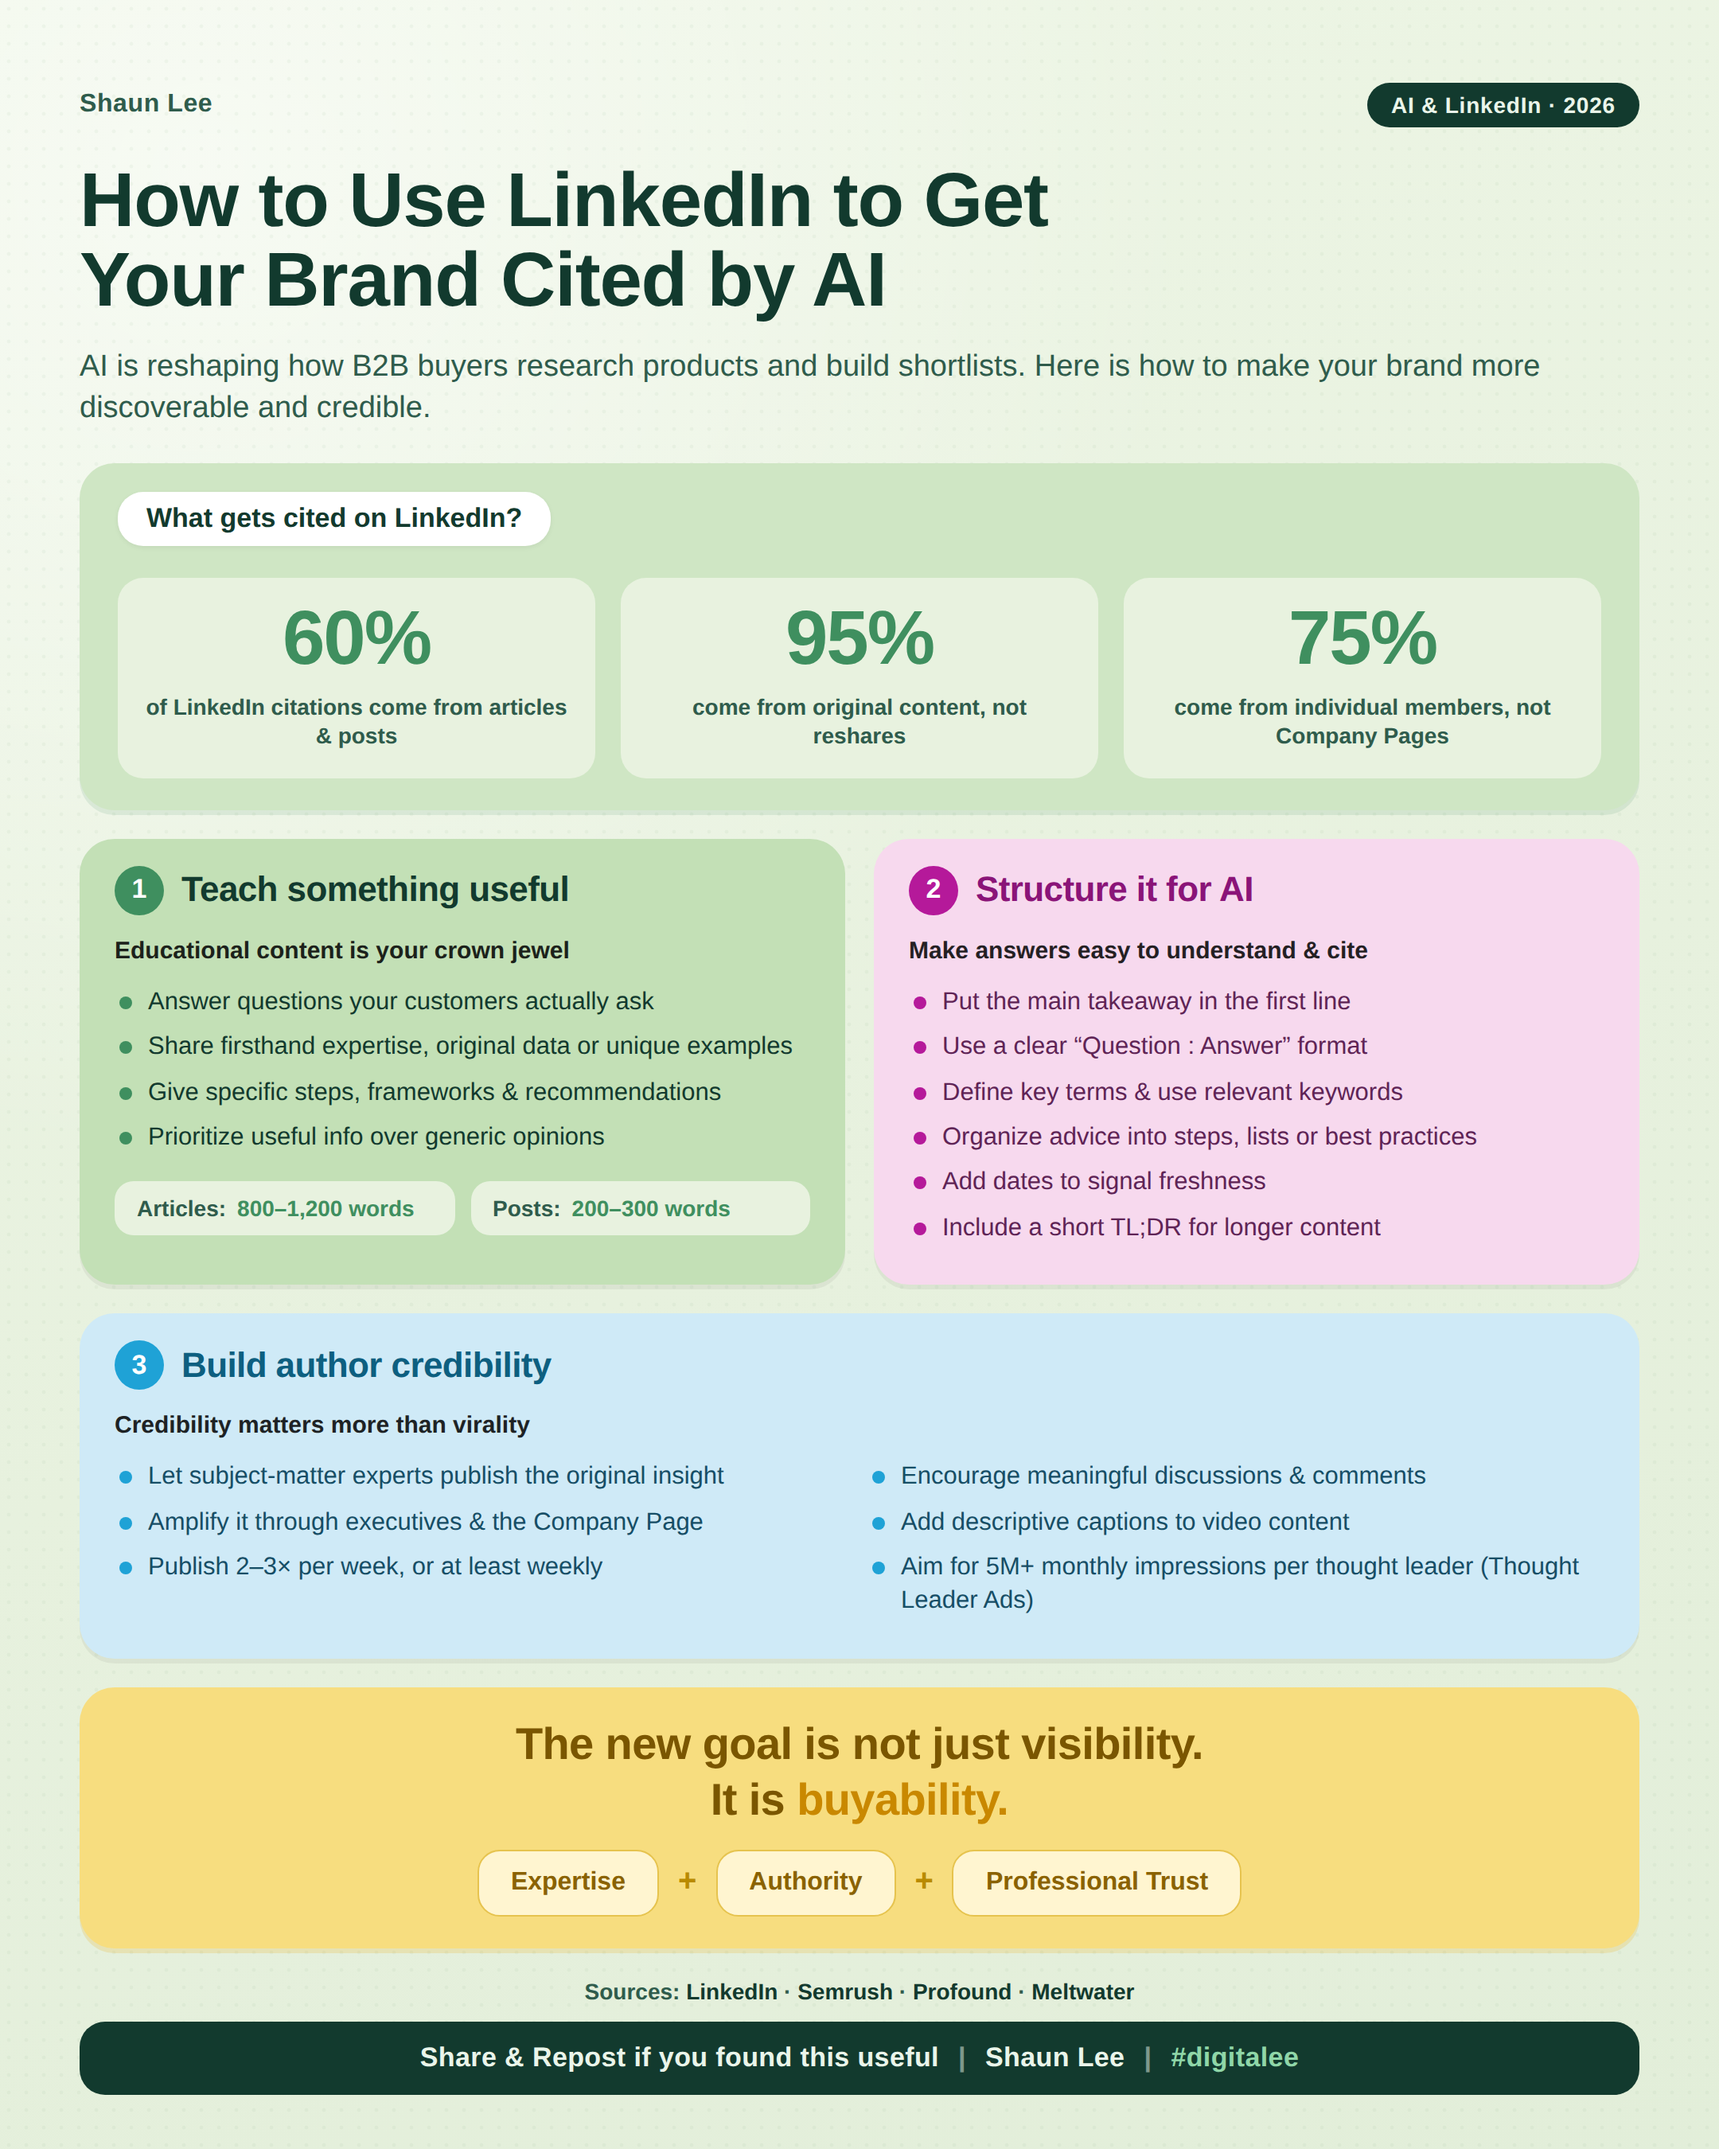
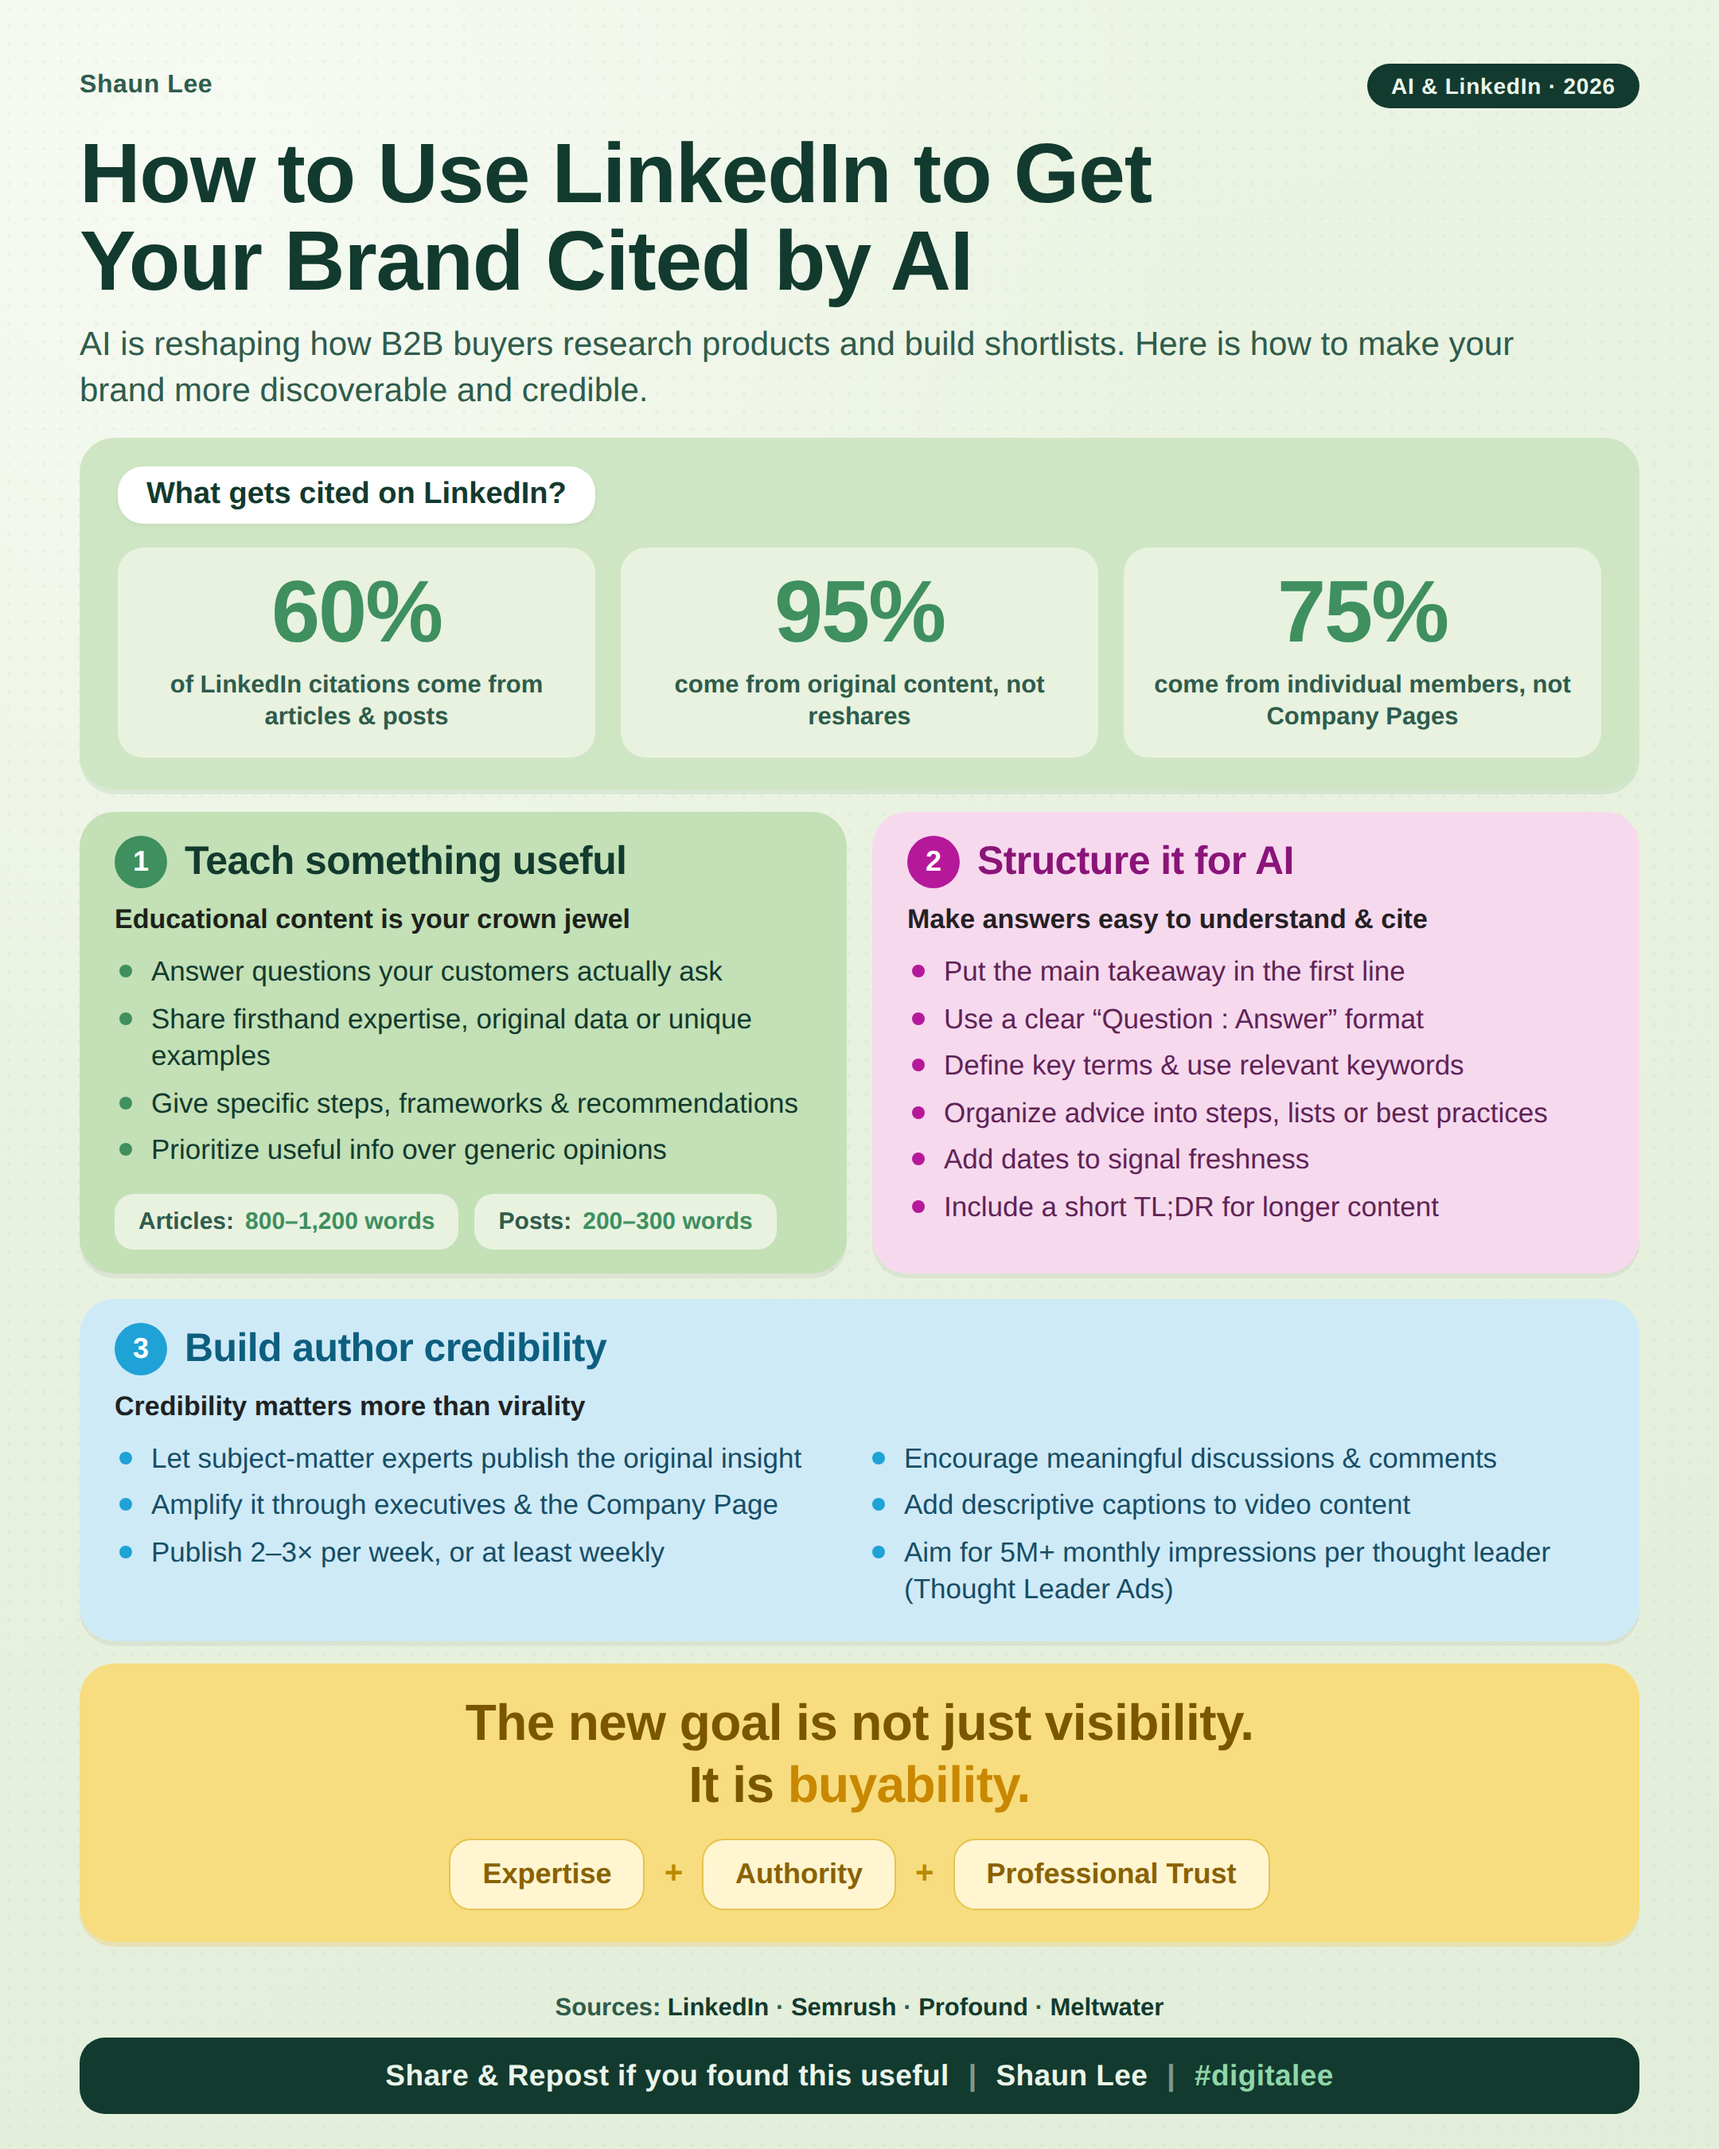
Increase infographic font sizes for readability
Bumps title, stats, step, and body type across the LinkedIn AI-citations
infographic and tightens spacing so it still fits the 1080x1350 canvas.

Claude-Session: https://claude.ai/code/session_01FoyhMXbMUNdJzsk8P6wWr2

Changed region(s): [[0.031, 0.0311, 0.9616, 0.9956], [0.7755, 0.0311, 0.9616, 0.0622]]

diff --git a/docs/infographics/linkedin-ai-citations.html b/docs/infographics/linkedin-ai-citations.html
@@ -49,7 +49,7 @@
     background:
       radial-gradient(circle at 12% 8%, rgba(255,255,255,.55), transparent 40%),
       linear-gradient(160deg,#eef6e6 0%, #e7f1de 55%, #e2eed9 100%);
-    padding:52px 50px 34px;
+    padding:40px 50px 22px;
     display:flex;
     flex-direction:column;
     position:relative;
@@ -70,7 +70,7 @@
     display:flex;justify-content:space-between;align-items:center;
     font-size:16px;font-weight:700;color:var(--ink-soft);
     letter-spacing:.3px;
-    margin-bottom:22px;
+    margin-bottom:14px;
   }
   .topbar .tag{
     background:var(--ink);color:#eaf5ea;
@@ -79,18 +79,18 @@
   }
 
   h1{
-    font-size:48px;line-height:1.05;font-weight:900;color:var(--ink);
+    font-size:53px;line-height:1.04;font-weight:900;color:var(--ink);
     letter-spacing:-.6px;
   }
   .subtitle{
-    margin-top:15px;
-    font-size:19px;line-height:1.4;color:var(--ink-soft);font-weight:500;
+    margin-top:11px;
+    font-size:21px;line-height:1.38;color:var(--ink-soft);font-weight:500;
     max-width:940px;
   }
 
   /* stats card */
   .stats{
-    margin-top:20px;
+    margin-top:14px;
     background:var(--green-block);
     border-radius:22px;
     padding:18px 24px 20px;
@@ -100,52 +100,52 @@
     display:inline-block;
     background:#ffffff;
     color:var(--ink);
-    font-weight:800;font-size:17px;
+    font-weight:800;font-size:19px;
     padding:7px 18px;border-radius:16px;
     box-shadow:0 1px 3px rgba(0,0,0,.06);
   }
   .stat-row{
-    display:grid;grid-template-columns:repeat(3,1fr);gap:16px;margin-top:20px;
+    display:grid;grid-template-columns:repeat(3,1fr);gap:16px;margin-top:15px;
   }
   .stat{
     background:var(--green-sub);
     border-radius:16px;
-    padding:15px 16px 17px;
+    padding:13px 16px 15px;
     text-align:center;
   }
   .stat .num{
-    font-size:48px;font-weight:900;color:var(--green-pill);line-height:1;
+    font-size:55px;font-weight:900;color:var(--green-pill);line-height:1;
     letter-spacing:-1px;
   }
   .stat .desc{
-    margin-top:9px;font-size:14px;line-height:1.32;color:var(--ink-soft);font-weight:600;
+    margin-top:9px;font-size:15.5px;line-height:1.3;color:var(--ink-soft);font-weight:600;
   }
 
   /* steps grid */
   .steps{
-    display:grid;grid-template-columns:1fr 1fr;gap:18px;margin-top:18px;
+    display:grid;grid-template-columns:1fr 1fr;gap:16px;margin-top:14px;
   }
   .step{
     border-radius:22px;
-    padding:17px 22px 18px;
+    padding:15px 22px 15px;
     box-shadow:0 3px 0 rgba(0,0,0,.05);
   }
   .step.wide{grid-column:1 / -1;}
   .step-head{
-    display:flex;align-items:center;gap:11px;margin-bottom:14px;
+    display:flex;align-items:center;gap:11px;margin-bottom:10px;
   }
   .step-num{
-    width:31px;height:31px;border-radius:50%;
+    width:33px;height:33px;border-radius:50%;
     display:flex;align-items:center;justify-content:center;
-    font-weight:900;font-size:17px;color:#fff;flex:0 0 auto;
+    font-weight:900;font-size:18px;color:#fff;flex:0 0 auto;
   }
-  .step-title{font-weight:900;font-size:22px;letter-spacing:-.3px;}
-  .step-sub{font-size:15px;font-weight:600;margin-bottom:13px;opacity:.85;}
+  .step-title{font-weight:900;font-size:25px;letter-spacing:-.3px;}
+  .step-sub{font-size:17px;font-weight:600;margin-bottom:11px;opacity:.85;}
 
   ul{list-style:none;}
   li{
-    font-size:15.5px;line-height:1.38;font-weight:500;
-    padding-left:21px;position:relative;margin-bottom:7px;
+    font-size:17.5px;line-height:1.34;font-weight:500;
+    padding-left:23px;position:relative;margin-bottom:6px;
   }
   li::before{
     content:"";position:absolute;left:3px;top:7px;
@@ -175,14 +175,16 @@
   .depth-pill{
     display:inline-flex;align-items:center;gap:7px;
     background:var(--green-sub);border-radius:12px;
-    padding:9px 14px;margin-top:10px;font-size:14px;font-weight:700;color:var(--ink-soft);
+    padding:9px 15px;margin-top:9px;font-size:15px;font-weight:700;color:var(--ink-soft);
+    white-space:nowrap;
   }
   .depth-pill b{color:var(--green-pill);}
+  .depth-row{display:flex;flex-wrap:wrap;gap:10px;}
   .two-col{display:grid;grid-template-columns:1fr 1fr;gap:10px;}
 
   /* closing */
   .closing{
-    margin-top:18px;
+    margin-top:14px;
     background:var(--yellow-block);
     border-radius:22px;
     padding:18px 24px 20px;
@@ -190,29 +192,29 @@
     box-shadow:0 3px 0 rgba(240,165,0,.18);
   }
   .closing .big{
-    font-size:28px;font-weight:900;color:#7a5600;letter-spacing:-.3px;line-height:1.25;
+    font-size:32px;font-weight:900;color:#7a5600;letter-spacing:-.3px;line-height:1.22;
   }
   .closing .big span{color:#c98800;}
   .formula{
     margin-top:14px;display:flex;justify-content:center;gap:12px;flex-wrap:wrap;
   }
   .formula .chip{
-    background:#fff5d0;color:#8a6200;font-weight:800;font-size:16px;
+    background:#fff5d0;color:#8a6200;font-weight:800;font-size:18px;
     padding:11px 20px;border-radius:14px;border:1.5px solid #e6c34e;
   }
   .formula .plus{align-self:center;font-weight:900;color:#b98a00;font-size:20px;}
 
   /* footer */
-  .footer{margin-top:auto;padding-top:18px;}
+  .footer{margin-top:auto;padding-top:14px;}
   .sources{
-    font-size:14px;color:var(--ink-soft);font-weight:600;text-align:center;
-    margin-bottom:11px;
+    font-size:15.5px;color:var(--ink-soft);font-weight:600;text-align:center;
+    margin-bottom:9px;
   }
   .sources b{color:var(--ink);}
   .signoff{
     display:flex;align-items:center;justify-content:center;gap:12px;
     background:var(--ink);border-radius:16px;padding:13px 18px;
-    color:#eaf5ea;font-weight:700;font-size:17px;letter-spacing:.2px;
+    color:#eaf5ea;font-weight:700;font-size:18.5px;letter-spacing:.2px;
   }
   .signoff .hash{color:#8fd6a8;font-weight:800;}
   .signoff .dot{opacity:.5;}
@@ -263,7 +265,7 @@
         <li>Give specific steps, frameworks &amp; recommendations</li>
         <li>Prioritize useful info over generic opinions</li>
       </ul>
-      <div class="two-col">
+      <div class="depth-row">
         <div class="depth-pill">Articles: <b>800–1,200 words</b></div>
         <div class="depth-pill">Posts: <b>200–300 words</b></div>
       </div>
